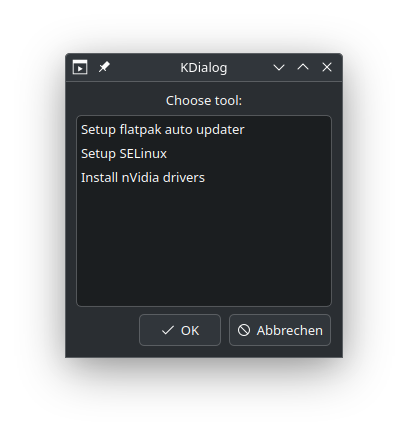
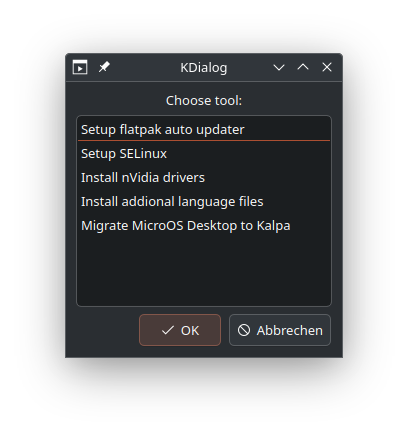
Update readme

diff --git a/README.md b/README.md
@@ -4,6 +4,8 @@ Graphical interface using kdialog to help setup a new Kalpa Desktop installation
 ## Features
 - Setup a flatpak auto updater which runs once every day
 - Setup SELinux permissions for a hassle free Kalpa experience
+- Install addional langauge files as Kalpa will still miss some language packages after the inital install
+- Migrate from MicroOS Desktop (Default) to the actuall Kalpa Desktop
 
 ## Screenshots
 
